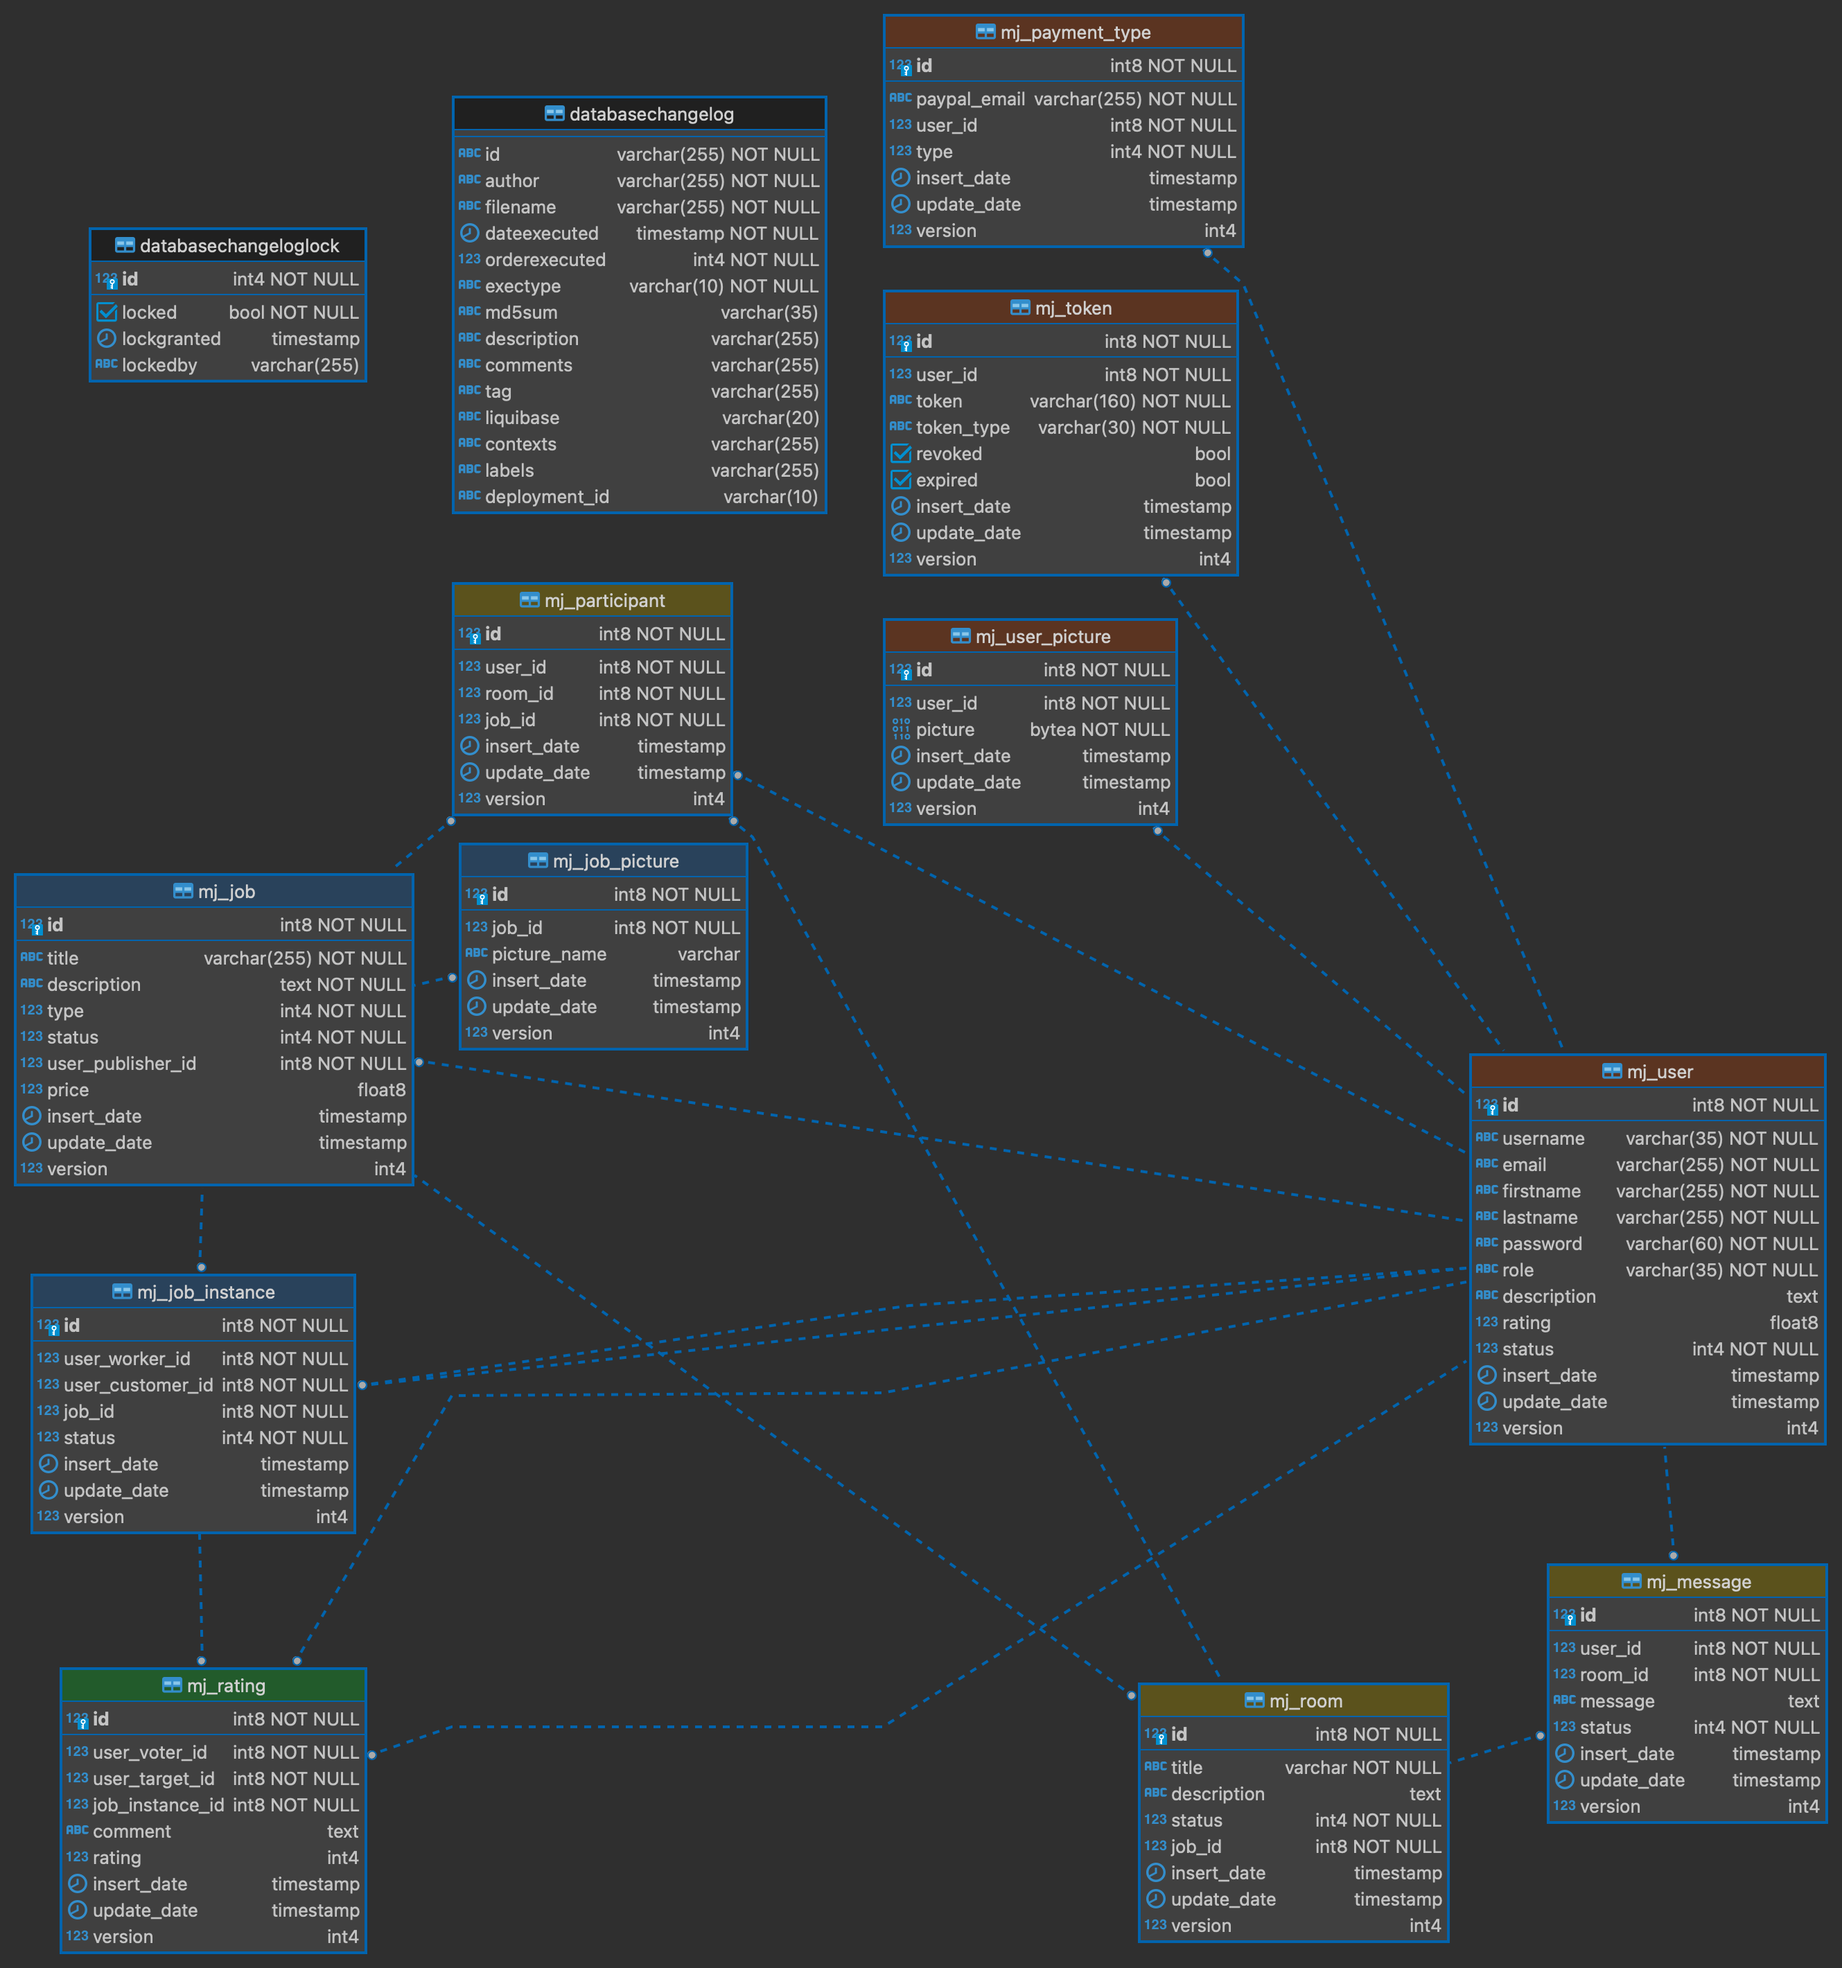
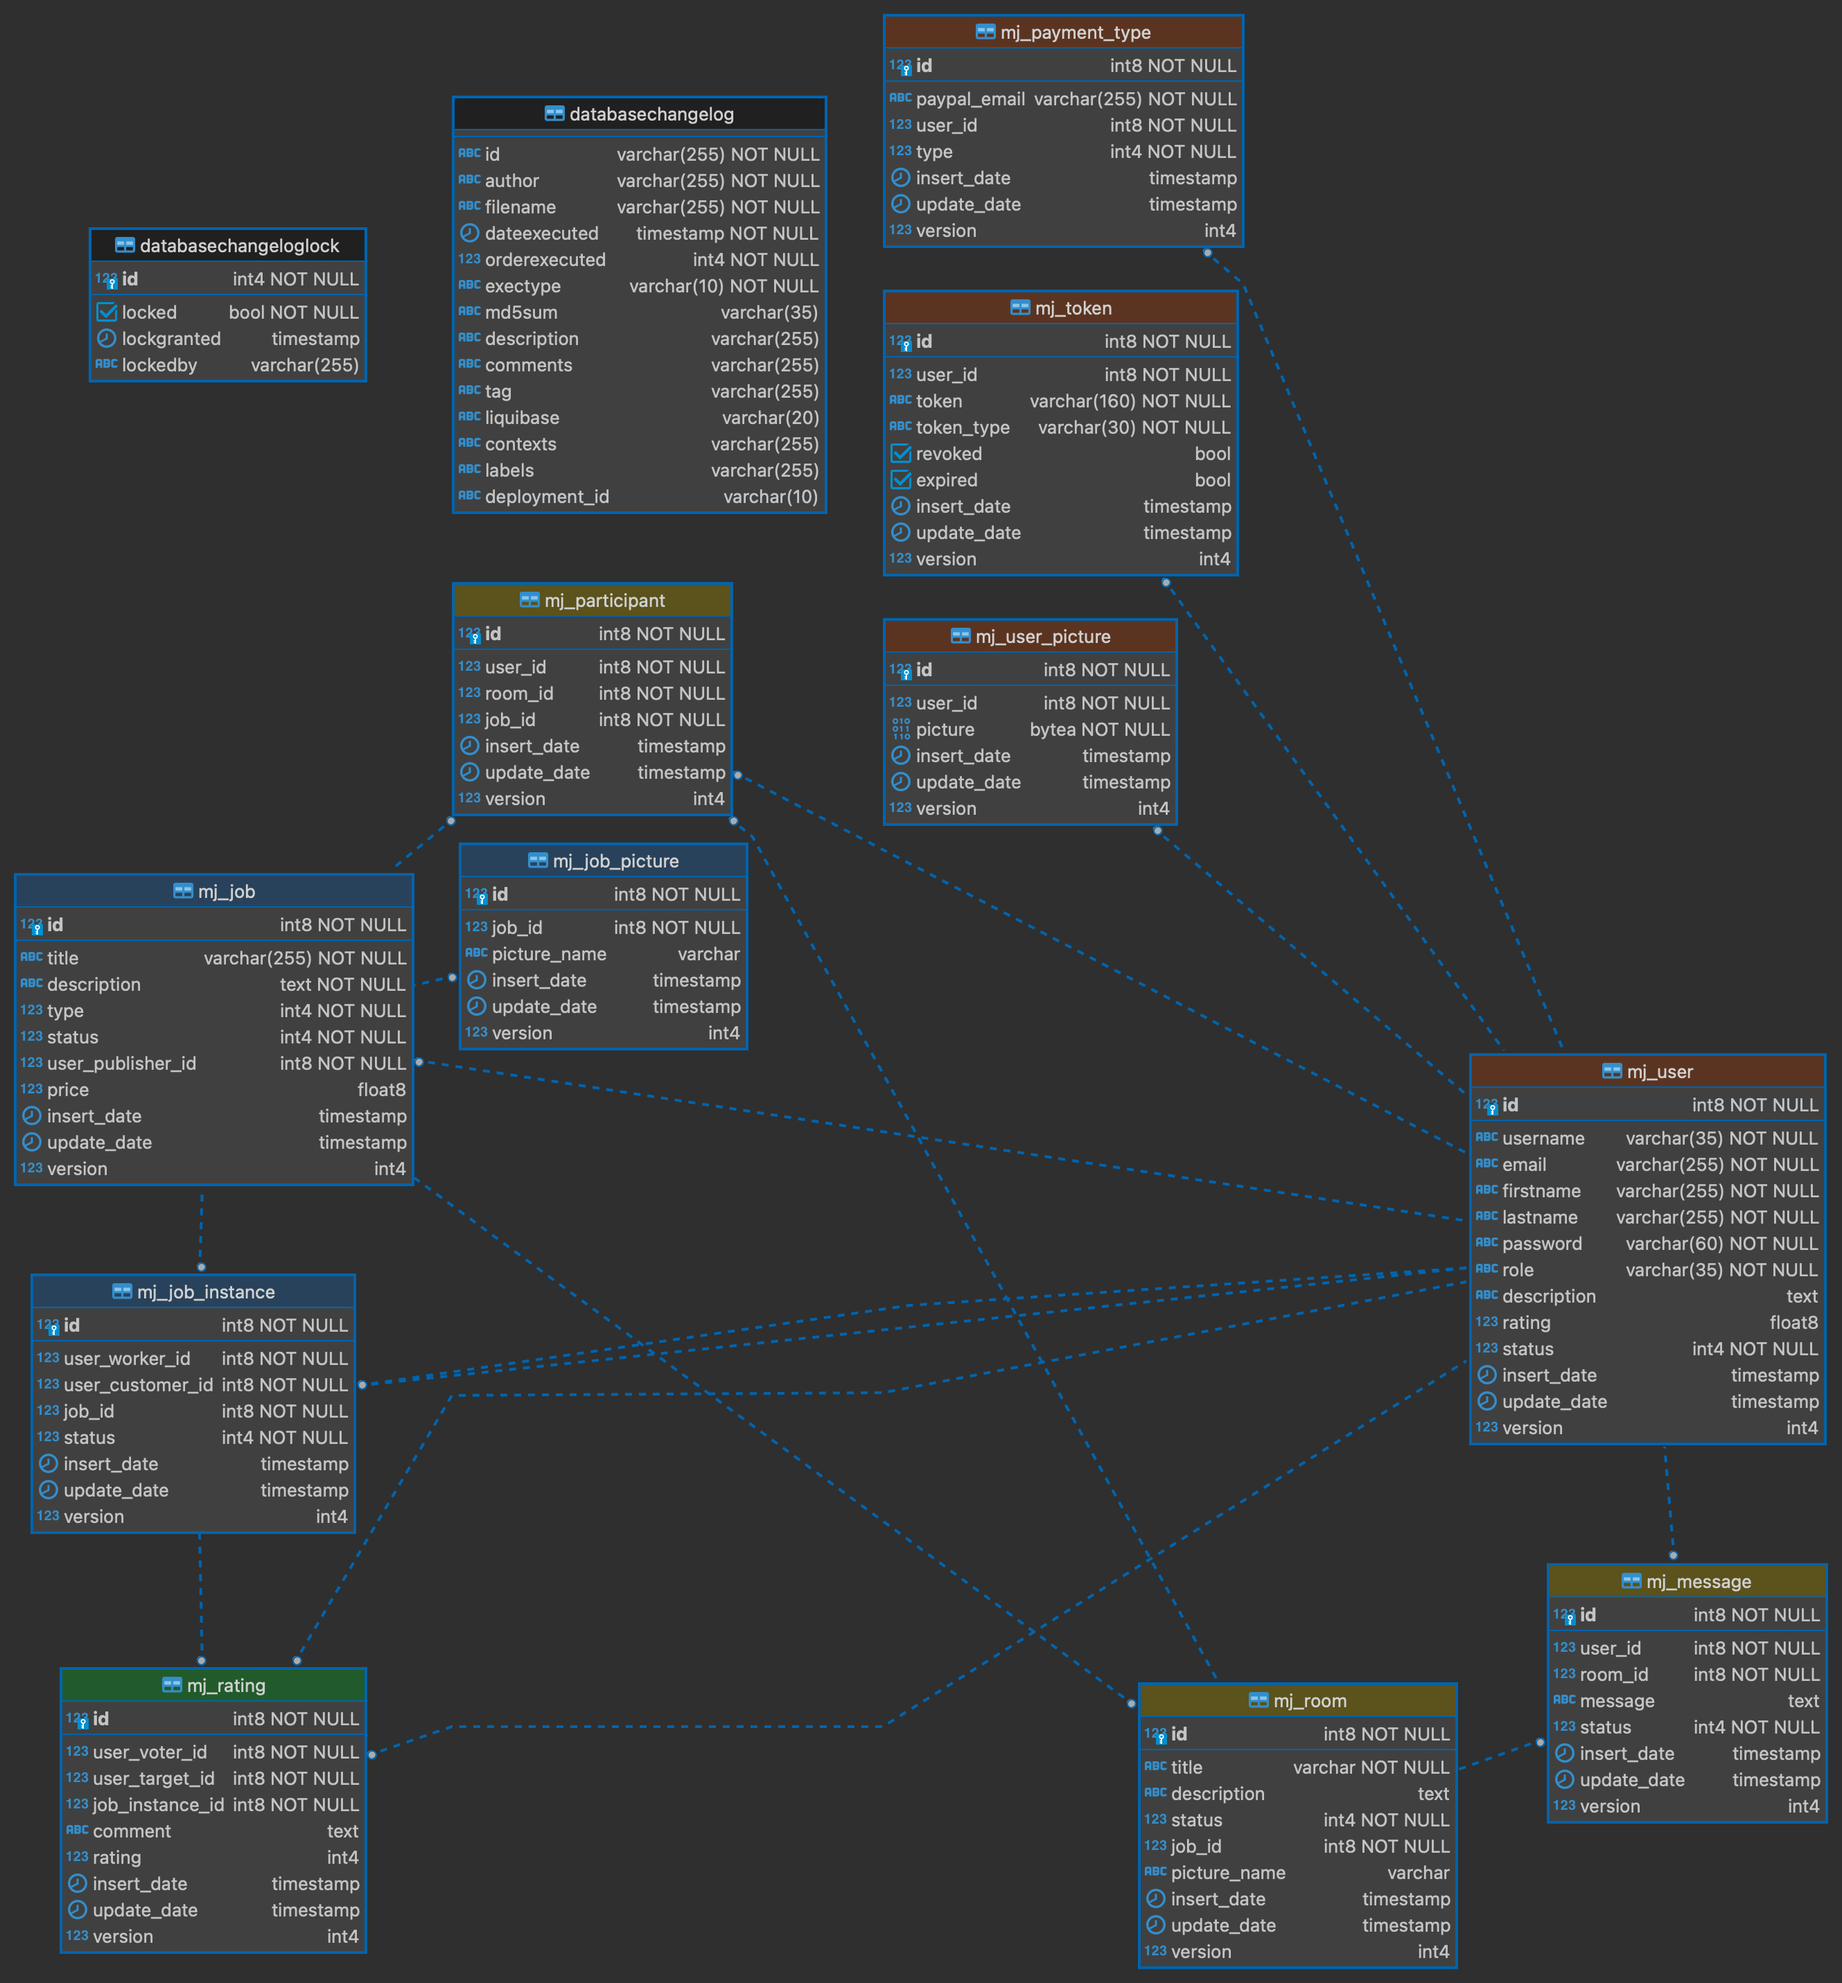
feature: room picture

diff --git a/src/main/java/com/andreidodu/service/impl/RoomServiceImpl.java b/src/main/java/com/andreidodu/service/impl/RoomServiceImpl.java
@@ -40,7 +40,7 @@ public class RoomServiceImpl implements RoomService {
     @Override
     public MessageDTO createMessage(String username, MessageDTO messageDTO) throws ValidationException {
         Long roomId = messageDTO.getRoomId();
-        if (!roomRepository.userBelongsToRoom(username, roomId)){
+        if (!roomRepository.userBelongsToRoom(username, roomId)) {
             throw new ValidationException("wrong room id");
         }
         Optional<Room> roomOptional = roomCrudRepository.findById(messageDTO.getRoomId());
@@ -91,7 +91,15 @@ public class RoomServiceImpl implements RoomService {
         room.setStatus(RoomConst.STATUS_CREATED);
         room.setTitle(job.getTitle());
         room.setJob(job);
+        room.setPictureName(extractMainPictureName(job));
         return room;
+    }
+
+    private static String extractMainPictureName(Job job) {
+        if (job.getJobPictureList() != null && job.getJobPictureList().size() > 0) {
+            return job.getJobPictureList().get(0).getPictureName();
+        }
+        return "";
     }
 
     private static Participant createHostParticipant(Room room, Job job) {
@@ -114,7 +122,7 @@ public class RoomServiceImpl implements RoomService {
 
     @Override
     public List<MessageDTO> getMessages(String username, Long roomId) throws ValidationException {
-        if (!roomRepository.userBelongsToRoom(username, roomId)){
+        if (!roomRepository.userBelongsToRoom(username, roomId)) {
             throw new ValidationException("wrong room id");
         }
         return this.messageMapper.toListDTO(roomRepository.findMessagesByUsernameAndRoomId(username, roomId));

diff --git a/src/main/java/com/andreidodu/mapper/RoomMapper.java b/src/main/java/com/andreidodu/mapper/RoomMapper.java
@@ -4,10 +4,15 @@ import com.andreidodu.dto.JobDTO;
 import com.andreidodu.dto.MessageDTO;
 import com.andreidodu.dto.RoomDTO;
 import com.andreidodu.model.Job;
+import com.andreidodu.model.JobPicture;
 import com.andreidodu.model.message.Message;
 import com.andreidodu.model.message.Room;
 import jakarta.annotation.PostConstruct;
 import org.springframework.stereotype.Component;
+
+import java.util.Arrays;
+import java.util.List;
+import java.util.Optional;
 
 @Component
 public class RoomMapper extends ModelMapperCommon<Room, RoomDTO> {
@@ -15,10 +20,13 @@ public class RoomMapper extends ModelMapperCommon<Room, RoomDTO> {
     public RoomMapper() {
         super(Room.class, RoomDTO.class);
     }
+
     @PostConstruct
     public void postConstruct() {
         super.getModelMapper().typeMap(Room.class, RoomDTO.class).addMappings(mapper -> {
-            //mapper.<Long>map(src -> src.getParticipants().get(0).getJob().getId(), (destination, value) -> destination.setJobId(value));
+            // mapper.<String>map(src -> extractImage(src.getJob().getJobPictureList()), (destination, value) -> destination.setPictureName(value));
         });
     }
+
+
 }

diff --git a/src/main/java/com/andreidodu/repository/RoomRepositoryImpl.java b/src/main/java/com/andreidodu/repository/RoomRepositoryImpl.java
@@ -83,7 +83,7 @@ public class RoomRepositoryImpl implements RoomRepository {
 
         QRoom room = QRoom.room;
         return this.queryFactory
-                .select(room.id, room.title, room.description, participant.job.id)
+                .select(room.id, room.title, room.description, participant.job.id, room.pictureName)
                 .distinct()
                 .from(room, participant)
                 .where(room.id.in(JPAExpressions
@@ -97,6 +97,7 @@ public class RoomRepositoryImpl implements RoomRepository {
                         rm.get(1, String.class),
                         rm.get(2, String.class),
                         rm.get(3, Long.class),
+                        rm.get(4, String.class),
                         queryFactory
                                 .selectFrom(participant)
                                 .where(participant.room.id.eq(rm.get(0, Long.class)))

diff --git a/src/main/java/com/andreidodu/model/message/Room.java b/src/main/java/com/andreidodu/model/message/Room.java
@@ -29,6 +29,16 @@ public class Room extends ModelCommon {
     @ManyToOne
     @JoinColumn(name = "job_id", nullable = false)
     private Job job;
+    @Column(name = "picture_name")
+    private String pictureName;
+
+    public String getPictureName() {
+        return pictureName;
+    }
+
+    public void setPictureName(String pictureName) {
+        this.pictureName = pictureName;
+    }
 
     public Job getJob() {
         return job;

diff --git a/src/main/java/com/andreidodu/dto/RoomExtendedDTO.java b/src/main/java/com/andreidodu/dto/RoomExtendedDTO.java
@@ -16,5 +16,6 @@ public class RoomExtendedDTO {
     private String title;
     private String description;
     private Long jobId;
+    private String pictureName;
     private List<String> participants;
 }

diff --git a/src/main/java/com/andreidodu/model/message/RoomExtended.java b/src/main/java/com/andreidodu/model/message/RoomExtended.java
@@ -16,5 +16,6 @@ public class RoomExtended {
     private String title;
     private String description;
     private Long jobId;
+    private String pictureName;
     private List<String> participants;
 }
